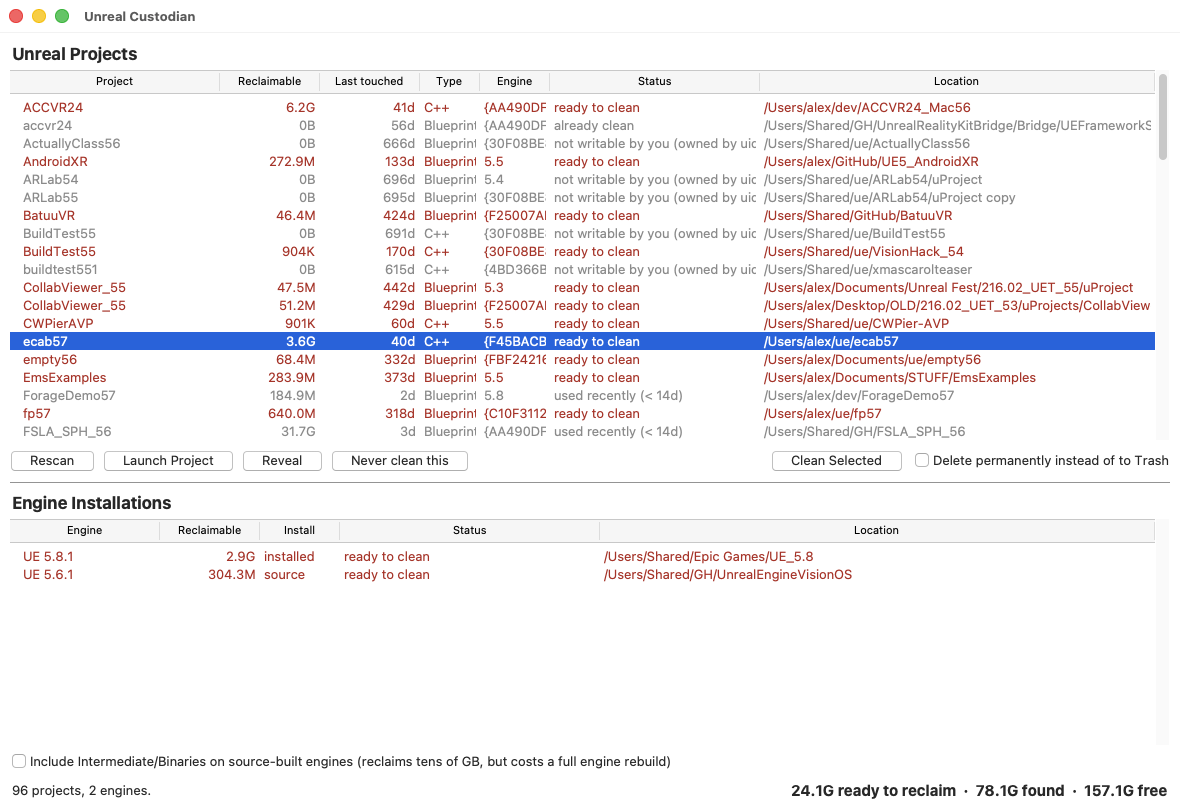
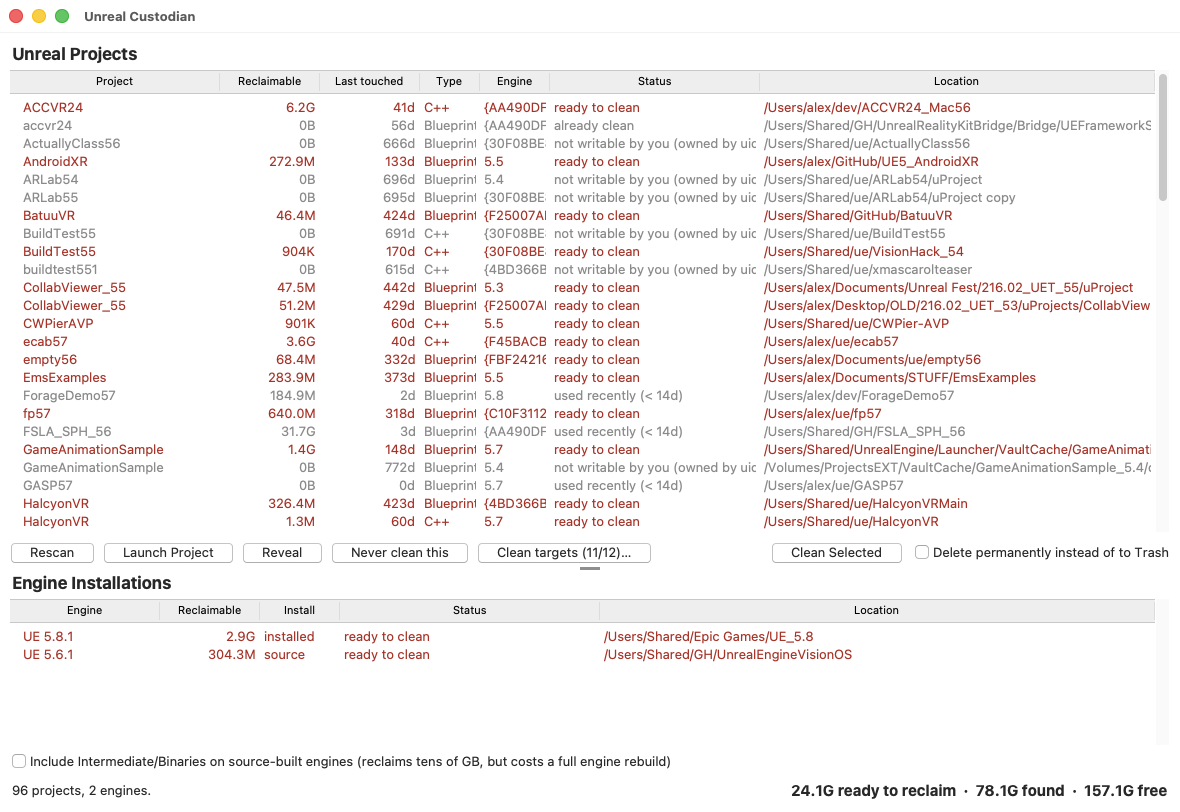
feat(gui): resizable divider/columns, target picker
The top/bottom split was a fixed grid row allocation -- with only two engine
installs the bottom table was mostly empty background, and there was no way
for a user to reclaim that space. Replaced with a ttk.PanedWindow (vertical)
with a draggable sash, defaulted to roughly a 72/28 split so the common case
looks right without dragging. Treeview column borders were already draggable
by default; this was a vertical-space problem, not a column one.

Added "Clean targets (N/12)..." -- a checklist over every policy.Target
(Intermediate, Saved/Cooked, DerivedDataCache, Binaries, Build, ...) that
sets the GUI's base policy for any project without its own .ueclean.json.
Previously the only way to scope a cleanup to just Intermediate, say, was to
hand-write a JSON file per project; this exposes the same mechanism the CLI
and config file already have, without adding a new one. A project's own
config file still wins over this selection, same layering the CLI already
uses for --min-age-days/--min-free-gb.

Verified end-to-end with a real window-ID screenshot: new layout renders,
sash is visible, target button shows the live count. Did not verify the
dialog's click-through interactively -- System Events lacks Accessibility
permission to script this Python process from this environment, so the
Toplevel/Checkbutton wiring is compile- and logic-verified but not clicked.

diff --git a/custodian/gui.py b/custodian/gui.py
@@ -53,6 +53,16 @@ class CustodianApp:
         self.status = tk.StringVar(value="Ready.")
         self.summary = tk.StringVar(value="")
 
+        # Which project-level folders (Intermediate, Saved/Cooked, DDC, ...)
+        # get cleaned. A project's own .ueclean.json still overrides this per
+        # project -- this is just the GUI's starting policy, same role as the
+        # CLI's built-in defaults.
+        self.target_vars: dict[str, tk.BooleanVar] = {
+            t.key: tk.BooleanVar(value=t.default_on) for t in policy_mod.TARGETS
+        }
+        self.targets_summary = tk.StringVar(value="")
+        self._refresh_targets_summary()
+
         self._build_layout()
         self.root.after(80, self._drain)
         self.rescan()
@@ -62,33 +72,47 @@ class CustodianApp:
     def _build_layout(self) -> None:
         outer = ttk.Frame(self.root, padding=10)
         outer.pack(fill=tk.BOTH, expand=True)
-        outer.columnconfigure(0, weight=1)
-        outer.rowconfigure(1, weight=3)
-        outer.rowconfigure(4, weight=2)
 
-        ttk.Label(outer, text="Unreal Projects", font=("", 13, "bold")).grid(
-            row=0, column=0, sticky=tk.W, pady=(0, 4)
-        )
-        self._build_projects(outer)
+        # A PanedWindow rather than fixed grid rows: with as few as two engine
+        # installs, a fixed-height allocation for that section is mostly empty
+        # background. The sash lets a user reclaim that space by hand instead
+        # of the tool guessing a split that's wrong for their machine.
+        paned = ttk.PanedWindow(outer, orient=tk.VERTICAL)
+        paned.pack(side=tk.TOP, fill=tk.BOTH, expand=True)
 
-        ttk.Separator(outer, orient="horizontal").grid(
-            row=2, column=0, sticky=tk.EW, pady=8
+        top = ttk.Frame(paned)
+        bottom = ttk.Frame(paned)
+        paned.add(top, weight=3)
+        paned.add(bottom, weight=1)
+        # Give the projects pane most of the space by default; the sash is
+        # still fully draggable afterward.
+        self.root.after(60, lambda: self._set_initial_sash(paned))
+
+        ttk.Label(top, text="Unreal Projects", font=("", 13, "bold")).pack(
+            side=tk.TOP, anchor=tk.W, pady=(0, 4)
         )
-        ttk.Label(outer, text="Engine Installations", font=("", 13, "bold")).grid(
-            row=3, column=0, sticky=tk.W, pady=(0, 4)
+        self._build_projects(top)
+
+        ttk.Label(bottom, text="Engine Installations", font=("", 13, "bold")).pack(
+            side=tk.TOP, anchor=tk.W, pady=(0, 4)
         )
-        self._build_engines(outer)
+        self._build_engines(bottom)
 
         bar = ttk.Frame(outer)
-        bar.grid(row=5, column=0, sticky=tk.EW, pady=(8, 0))
+        bar.pack(side=tk.BOTTOM, fill=tk.X, pady=(8, 0))
         ttk.Label(bar, textvariable=self.status).pack(side=tk.LEFT)
         ttk.Label(bar, textvariable=self.summary, font=("", 11, "bold")).pack(
             side=tk.RIGHT
         )
 
+    def _set_initial_sash(self, paned: ttk.PanedWindow) -> None:
+        total = paned.winfo_height()
+        if total > 100:
+            paned.sashpos(0, int(total * 0.72))
+
     def _build_projects(self, parent: ttk.Frame) -> None:
         frame = ttk.Frame(parent)
-        frame.grid(row=1, column=0, sticky=tk.NSEW)
+        frame.pack(fill=tk.BOTH, expand=True)
         frame.columnconfigure(0, weight=1)
         frame.rowconfigure(0, weight=1)
 
@@ -133,6 +157,10 @@ class CustodianApp:
         ttk.Button(
             buttons, text="Never clean this", command=self.toggle_opt_out
         ).pack(side=tk.LEFT, padx=(8, 0))
+        self.targets_button = ttk.Button(
+            buttons, textvariable=self.targets_summary, command=self.open_target_config
+        )
+        self.targets_button.pack(side=tk.LEFT, padx=(8, 0))
 
         ttk.Checkbutton(
             buttons,
@@ -147,7 +175,7 @@ class CustodianApp:
 
     def _build_engines(self, parent: ttk.Frame) -> None:
         frame = ttk.Frame(parent)
-        frame.grid(row=4, column=0, sticky=tk.NSEW)
+        frame.pack(fill=tk.BOTH, expand=True)
         frame.columnconfigure(0, weight=1)
         frame.rowconfigure(0, weight=1)
 
@@ -207,11 +235,14 @@ class CustodianApp:
         self.status.set("Searching...")
         self.summary.set("")
         include_rebuildable = self.engine_rebuildable.get()
+        base_policy = policy_mod.DEFAULT_POLICY.with_overrides(
+            {"targets": [key for key, var in self.target_vars.items() if var.get()]}
+        )
         threading.Thread(
-            target=self._scan_worker, args=(include_rebuildable,), daemon=True
+            target=self._scan_worker, args=(include_rebuildable, base_policy), daemon=True
         ).start()
 
-    def _scan_worker(self, include_rebuildable: bool) -> None:
+    def _scan_worker(self, include_rebuildable: bool, base_policy: policy_mod.Policy) -> None:
         """Runs off the main thread; every result goes back through the queue."""
         try:
             engines = find_engine_installs()
@@ -225,7 +256,9 @@ class CustodianApp:
             projects = find_projects(engine_installs=engines)
             self.results.put(("count", len(projects)))
             for project in projects:
-                self.results.put(("project", scan_project(project)))
+                # A project's own .ueclean.json still layers over this and
+                # wins -- base_policy only supplies what the file doesn't say.
+                self.results.put(("project", scan_project(project, base_policy)))
         except Exception as exc:  # surfaced in the status bar, never silent
             self.results.put(("error", str(exc)))
         finally:
@@ -416,6 +449,63 @@ class CustodianApp:
             self.reports[key] = updated = scan_project(report.project)
             self.tree.item(key, values=self._row(updated), tags=(self._tag(updated),))
         self._refresh_summary()
+
+    def _refresh_targets_summary(self) -> None:
+        n = sum(1 for v in self.target_vars.values() if v.get())
+        self.targets_summary.set(f"Clean targets ({n}/{len(self.target_vars)})…")
+
+    def open_target_config(self) -> None:
+        """Pick which reclaimable folders (Intermediate, Saved/Cooked, DDC, ...)
+        are in scope for this session's cleanup.
+
+        This is the GUI equivalent of a project's `.ueclean.json` `targets`
+        list -- a project file still wins over this if one exists; this only
+        sets what applies when a project has no file of its own.
+        """
+        dialog = tk.Toplevel(self.root)
+        dialog.title("Cleanup targets")
+        dialog.transient(self.root)
+        dialog.resizable(False, True)
+
+        ttk.Label(
+            dialog,
+            text="Which reclaimable folders should be in scope for projects "
+                 "that don't have their own .ueclean.json:",
+            wraplength=460, justify=tk.LEFT,
+        ).pack(anchor=tk.W, padx=14, pady=(14, 8))
+
+        body = ttk.Frame(dialog)
+        body.pack(fill=tk.BOTH, expand=True, padx=14)
+        for target in policy_mod.TARGETS:
+            row = ttk.Frame(body)
+            row.pack(fill=tk.X, pady=2)
+            ttk.Checkbutton(
+                row, text=target.key, variable=self.target_vars[target.key]
+            ).pack(side=tk.LEFT)
+            ttk.Label(
+                row, text=f"{target.description}  ·  costs: {target.rebuild_cost}",
+                foreground="#666666",
+            ).pack(side=tk.LEFT, padx=(8, 0))
+
+        buttons = ttk.Frame(dialog)
+        buttons.pack(fill=tk.X, padx=14, pady=12)
+        ttk.Button(
+            buttons, text="Defaults",
+            command=lambda: [
+                self.target_vars[t.key].set(t.default_on) for t in policy_mod.TARGETS
+            ],
+        ).pack(side=tk.LEFT)
+        ttk.Button(
+            buttons, text="Apply", command=lambda: self._apply_target_config(dialog)
+        ).pack(side=tk.RIGHT)
+        ttk.Button(buttons, text="Cancel", command=dialog.destroy).pack(
+            side=tk.RIGHT, padx=(0, 8)
+        )
+
+    def _apply_target_config(self, dialog: tk.Toplevel) -> None:
+        self._refresh_targets_summary()
+        dialog.destroy()
+        self.rescan()
 
     def _warn_permanent(self) -> None:
         if not self.permanent.get():

diff --git a/README.md b/README.md
@@ -116,6 +116,10 @@ python3 -m custodian.gui
 
 Sortable table of every project with its reclaimable size, last-touched date, engine version and eligibility; sortable table of engine installs below it with the same fields, so a source build's 60+ GB is as reachable as any project — its Intermediate/Binaries stay behind an explicit checkbox, since reclaiming them costs a full engine rebuild. The Trash/permanent choice is a checkbox, and "Never clean this" writes the `.ueclean.json` opt-out for you.
 
+The divider between the two tables is a draggable sash, not a fixed split — with only a couple of engines installed the bottom table doesn't need much room, so drag it down and give the project list the space. Treeview column borders are draggable the same way Finder's and Explorer's are.
+
+**"Clean targets (N/12)…"** picks which reclaimable folders (`Intermediate`, `Saved/Cooked`, `DerivedDataCache`, `Binaries`, `Build`, …) are in scope, for any project that doesn't have its own `.ueclean.json` — the same list documented in [Configuration](#per-project-configuration) below, as checkboxes instead of hand-edited JSON. A project's own config file still wins over this if one exists.
+
 **The GUI needs a Python built with `tkinter` *and Tk 8.6 or newer*.** The CLI has no such requirement and runs on the Python that ships inside Unreal itself (`Engine/Binaries/ThirdParty/Python3/`) — that bundled interpreter has no `tkinter` at all, so it cannot run the GUI either way.
 
 On macOS specifically: the only tkinter Apple ships is bundled inside Xcode's Python 3.9 (`/usr/bin/python3`), and its Tk is 8.5 — old enough to hit a well-known blank/white-window bug on modern macOS (nothing renders, no error, the window just stays empty). If `python3 -m custodian.gui` gives you a blank window, that is almost certainly it. Fix:
